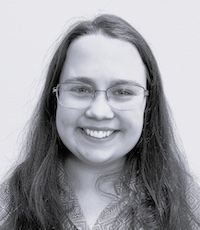
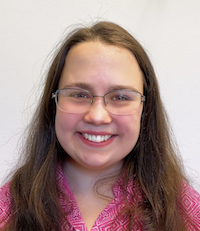
more photos

diff --git a/_people/RPC_iris.md b/_people/RPC_iris.md
@@ -1,8 +1,8 @@
 ---
-name: Iris Tretin
-title: Iris Tretin
+name: Iris Marmouset-de la Taille
+title: Iris Marmouset-de la Taille
 position: gradstudent
-avatar: logo.png
+avatar: Iris.png
 joined: 2024_2
 affiliation: <span>[w/ Simon Butt]</span><br>[Flor Iacaruso (Crick)]
 

diff --git a/_people/RPC_angeliki.md b/_people/RPC_angeliki.md
@@ -2,7 +2,7 @@
 name: Angeliki Papathanasiou
 title: Angeliki Papathanasiou
 position: gradstudent
-avatar: logo.png
+avatar: Angeliki.png
 joined: 2024_1
 affiliation: <span>[w/ Tom Nicols]</span><br><span style="color:#FFFFFF">.</span>
 

diff --git a/_people/RPC_Elene_Lominadze.md b/_people/RPC_Elene_Lominadze.md
@@ -2,7 +2,7 @@
 name: Elene Lominadze
 title: Elene Lominadze
 position: gradstudent
-avatar: logo.png
+avatar: Elene.png
 joined: 2025_2
 affiliation: <span>[w/ Rafal Bogacz]</span><br><span style="color:#FFFFFF">.</span>
 

diff --git a/_people/RPC_Miklos_Kralik.md b/_people/RPC_Miklos_Kralik.md
@@ -2,7 +2,7 @@
 name: Miklos Kralik
 title: Miklos Kralik
 position: gradstudent
-avatar: logo.png
+avatar: Miklos.png
 joined: 2025_1
 affiliation: <span>[w/ Andy Sharrot]</span><br><span style="color:#FFFFFF">.</span>
 

diff --git a/_people/RPC_ben.md b/_people/RPC_ben.md
@@ -2,7 +2,7 @@
 name: Ben Ibbott
 title: Ben Ibbott
 position: gradstudent
-avatar: logo.png
+avatar: BenI.png
 joined: 2024_3
 affiliation: <span>[w/ Christoph Treiber]</span><br><span style="color:#FFFFFF">.</span>
 
